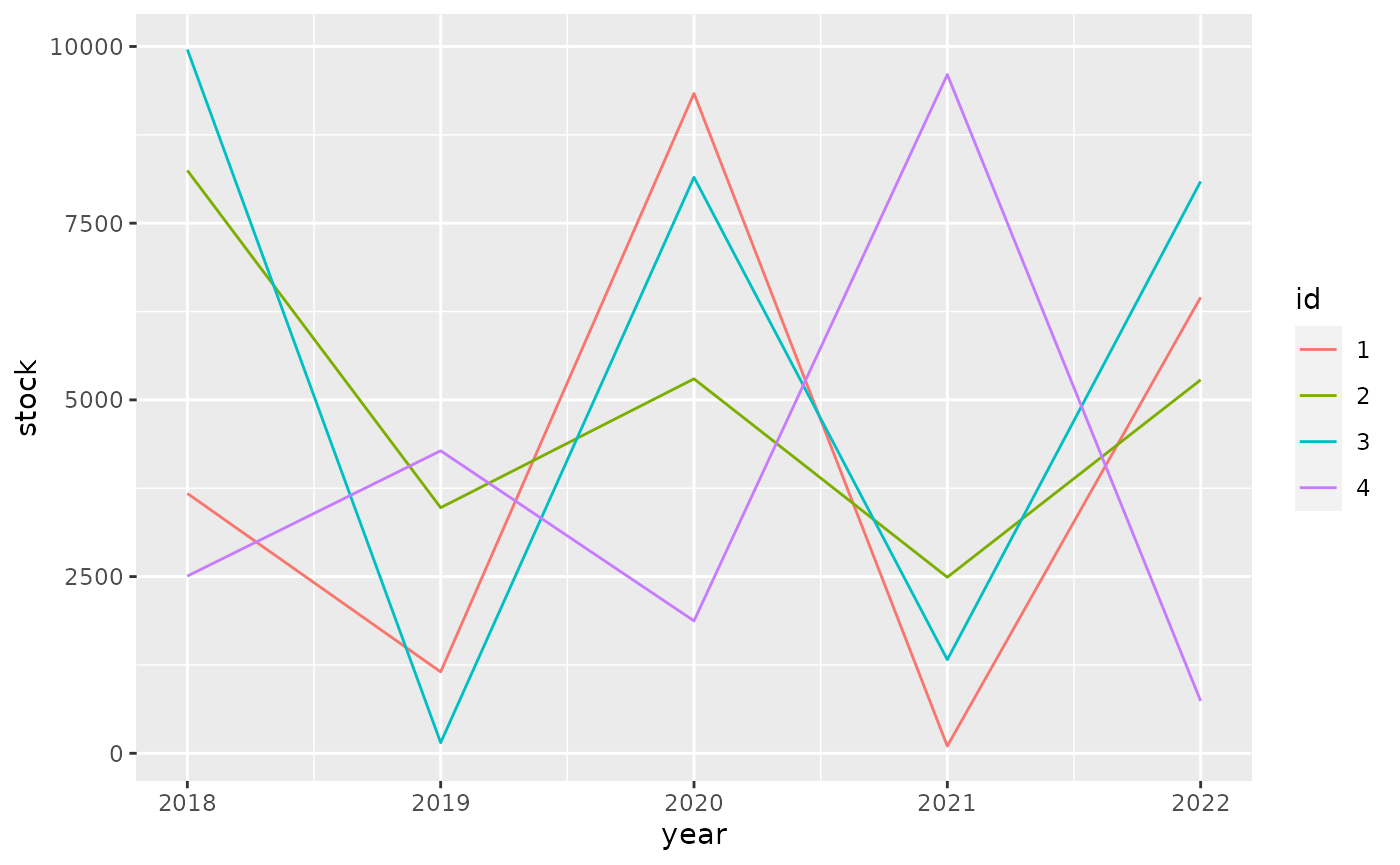
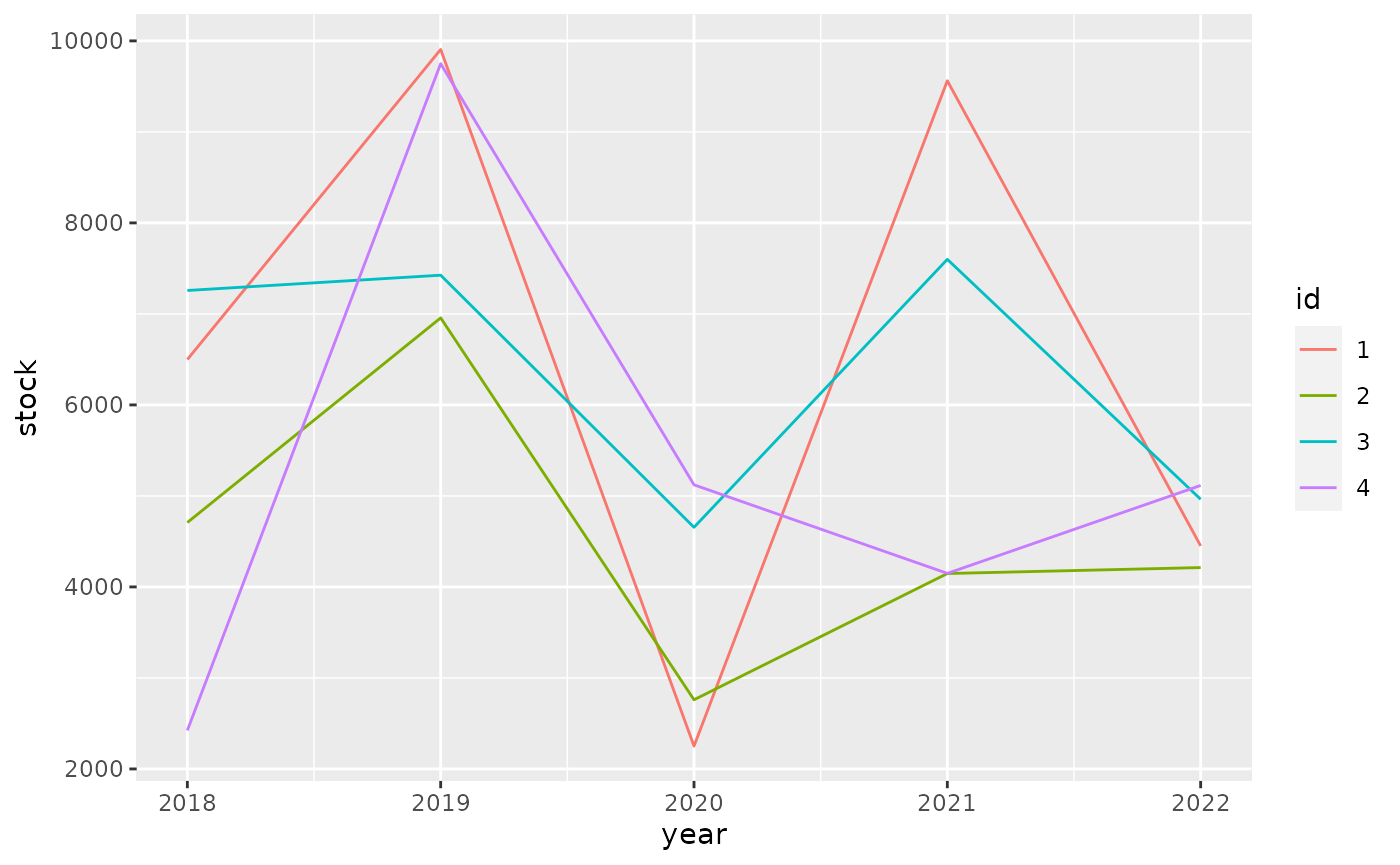
Built site for tibble: 3.1.2.9001@ac97b3e

diff --git a/dev/articles/formats.html b/dev/articles/formats.html
@@ -224,10 +224,10 @@
 <span class="co">#&gt; # A tibble: 4 × 6</span>
 <span class="co">#&gt;   id       `2018`    `2019`    `2020`    `2021`    `2022`</span>
 <span class="co">#&gt;   &lt;fct&gt; &lt;dbl:fmt&gt; &lt;dbl:fmt&gt; &lt;dbl:fmt&gt; &lt;dbl:fmt&gt; &lt;dbl:fmt&gt;</span>
-<span class="co">#&gt; 1 1     $3,676.53 $1,151.88 $9,335.95   $101.99 $6,451.80</span>
-<span class="co">#&gt; 2 2     $8,246.42 $3,475.15 $5,297.72 $2,491.37 $5,283.21</span>
-<span class="co">#&gt; 3 3     $9,958.04   $150.26 $8,149.43 $1,324.46 $8,091.33</span>
-<span class="co">#&gt; 4 4     $2,507.49 $4,280.04 $1,873.43 $9,602.62   $739.59</span></code></pre></div>
+<span class="co">#&gt; 1 1     $6,498.85 $9,905.99 $2,251.14 $9,562.08 $4,450.72</span>
+<span class="co">#&gt; 2 2     $4,707.73 $6,956.21 $2,760.03 $4,147.21 $4,212.61</span>
+<span class="co">#&gt; 3 3     $7,257.37 $7,425.38 $4,654.95 $7,599.42 $4,962.98</span>
+<span class="co">#&gt; 4 4     $2,423.44 $9,749.60 $5,121.88 $4,148.88 $5,115.06</span></code></pre></div>
 <p>For ggplot2 we need to do <a href="https://github.com/tidyverse/ggplot2/pull/4065" class="external-link">some work</a> to show apply the formatting to the scales.</p>
 <div class="sourceCode" id="cb6"><pre class="downlit sourceCode r">
 <code class="sourceCode R"><span class="kw"><a href="https://rdrr.io/r/base/library.html" class="external-link">library</a></span><span class="op">(</span><span class="va"><a href="https://ggplot2.tidyverse.org" class="external-link">ggplot2</a></span><span class="op">)</span>
@@ -238,10 +238,10 @@
   <span class="fu"><a href="https://ggplot2.tidyverse.org/reference/geom_path.html" class="external-link">geom_line</a></span><span class="op">(</span><span class="op">)</span></code></pre></div>
 <p><img src="formats_files/figure-html/unnamed-chunk-7-1.png" width="700"></p>
 <p>It pays off to specify formatting very early in the process. The diagram below shows the principal stages of data analysis and exploration from “R for data science”.</p>
-<div id="htmlwidget-ad1db6957cc056d6e847" style="width:700px;height:432.632880098888px;" class="DiagrammeR html-widget"></div>
-<script type="application/json" data-for="htmlwidget-ad1db6957cc056d6e847">{"x":{"diagram":"graph TD\n  Import --> Tidy\n  Tidy --> Transform\n  Transform --> Visualize\n  Visualize --> Communicate\n  Visualize --> Model\n  Model -.-> Transform"},"evals":[],"jsHooks":[]}</script><p>The subsequent diagram adds data formats, communication options, and explicit data formatting. The original r4ds transitions are highlighted in bold. There are two principal options where to apply formatting for results: right before communicating them, or right after importing.</p>
-<div id="htmlwidget-10691b51de3a094d11e0" style="width:700px;height:432.632880098888px;" class="DiagrammeR html-widget"></div>
-<script type="application/json" data-for="htmlwidget-10691b51de3a094d11e0">{"x":{"diagram":"graph TD\n  .csv --> Import\n  API --> Import\n  DBI --> Import\n  dbplyr --> Import\n  Import -.-> Format[Format for analysis]\n  Format -.-> Tidy\n\n  subgraph r4ds\n  Import ==> Tidy\n  Tidy ==> Transform\n  Transform ==> Visualize\n  Visualize ==> Model\n  Model -.-> Transform\n  Visualize ==> Communicate\n  end\n\n  Visualize -.-> FormatComm[Format for communication]\n  FormatComm -.-> Communicate\n\n  FormatComm -- Apply formatting early --> Format\n\n  dbplyr -.-> Tidy\n  dbplyr -.-> Transform\n  dbplyr -.-> Visualize\n\n  Communicate --> gt\n  Communicate --> ggplot2\n  Communicate --> DT\n  Communicate --> plotly"},"evals":[],"jsHooks":[]}</script><p>Applying formatting early in the process gives the added benefit of showing the data in a useful format during the “Tidy”, “Transform”, and “Visualize” stages. For this to be useful, we need to ensure that the formatting options applied early:</p>
+<div id="htmlwidget-00d951a33c068bd704b3" style="width:700px;height:432.632880098888px;" class="DiagrammeR html-widget"></div>
+<script type="application/json" data-for="htmlwidget-00d951a33c068bd704b3">{"x":{"diagram":"graph TD\n  Import --> Tidy\n  Tidy --> Transform\n  Transform --> Visualize\n  Visualize --> Communicate\n  Visualize --> Model\n  Model -.-> Transform"},"evals":[],"jsHooks":[]}</script><p>The subsequent diagram adds data formats, communication options, and explicit data formatting. The original r4ds transitions are highlighted in bold. There are two principal options where to apply formatting for results: right before communicating them, or right after importing.</p>
+<div id="htmlwidget-2de721fe0d0e84ddf042" style="width:700px;height:432.632880098888px;" class="DiagrammeR html-widget"></div>
+<script type="application/json" data-for="htmlwidget-2de721fe0d0e84ddf042">{"x":{"diagram":"graph TD\n  .csv --> Import\n  API --> Import\n  DBI --> Import\n  dbplyr --> Import\n  Import -.-> Format[Format for analysis]\n  Format -.-> Tidy\n\n  subgraph r4ds\n  Import ==> Tidy\n  Tidy ==> Transform\n  Transform ==> Visualize\n  Visualize ==> Model\n  Model -.-> Transform\n  Visualize ==> Communicate\n  end\n\n  Visualize -.-> FormatComm[Format for communication]\n  FormatComm -.-> Communicate\n\n  FormatComm -- Apply formatting early --> Format\n\n  dbplyr -.-> Tidy\n  dbplyr -.-> Transform\n  dbplyr -.-> Visualize\n\n  Communicate --> gt\n  Communicate --> ggplot2\n  Communicate --> DT\n  Communicate --> plotly"},"evals":[],"jsHooks":[]}</script><p>Applying formatting early in the process gives the added benefit of showing the data in a useful format during the “Tidy”, “Transform”, and “Visualize” stages. For this to be useful, we need to ensure that the formatting options applied early:</p>
 <ul>
 <li>give a good user experience for analysis
 <ul>

diff --git a/dev/reference/as_tibble.html b/dev/reference/as_tibble.html
@@ -70,9 +70,7 @@ Default: Other inputs are first coerced with base::as.data.frame().
 
 
 as_tibble_row() converts a vector to a tibble with one row.
-The input must be a bare vector, e.g. vectors of dates are not
-supported yet.
-If the input is a list, all elements must have length one.
+If the input is a list, all elements must have size one.
 as_tibble_col() converts a vector to a tibble with one column." />
 <meta property="og:image" content="https://tibble.tidyverse.org/logo.svg" />
 <meta name="twitter:card" content="summary" />
@@ -227,9 +225,7 @@ that implements tibble's treatment of <a href='rownames.html'>rownames</a>.</p><
 </ul>
 
 <p><code>as_tibble_row()</code> converts a vector to a tibble with one row.
-The input must be a bare vector, e.g. vectors of dates are not
-supported yet.
-If the input is a list, all elements must have length one.</p>
+If the input is a list, all elements must have size one.</p>
 <p><code>as_tibble_col()</code> converts a vector to a tibble with one column.</p>
     </div>
 

diff --git a/dev/articles/types.html b/dev/articles/types.html
@@ -357,7 +357,7 @@
 #&gt; $ factor        &lt;fct&gt; A
 #&gt; $ ordered       &lt;ord&gt; a
 #&gt; $ Date          &lt;date&gt; 2021-07-21
-#&gt; $ POSIXt        &lt;dttm&gt; 2021-07-21 03:36:38
+#&gt; $ POSIXt        &lt;dttm&gt; 2021-07-21 03:55:07
 #&gt; $ difftime      &lt;drtn&gt; 1 secs
 #&gt; $ hms           &lt;time&gt; 00:00:01
 #&gt; $ integer64     &lt;int64&gt; 10000000000
@@ -393,7 +393,7 @@
 <span class="co">#&gt;             "sym"</span>
 <span class="co">#&gt;         }, typeof(x))</span>
 <span class="co">#&gt; }</span>
-<span class="co">#&gt; &lt;bytecode: 0x55a5ed919188&gt;</span>
+<span class="co">#&gt; &lt;bytecode: 0x5589c7c6fd30&gt;</span>
 <span class="co">#&gt; &lt;environment: namespace:pillar&gt;</span></code></pre></div>
 </div>
   </div>
